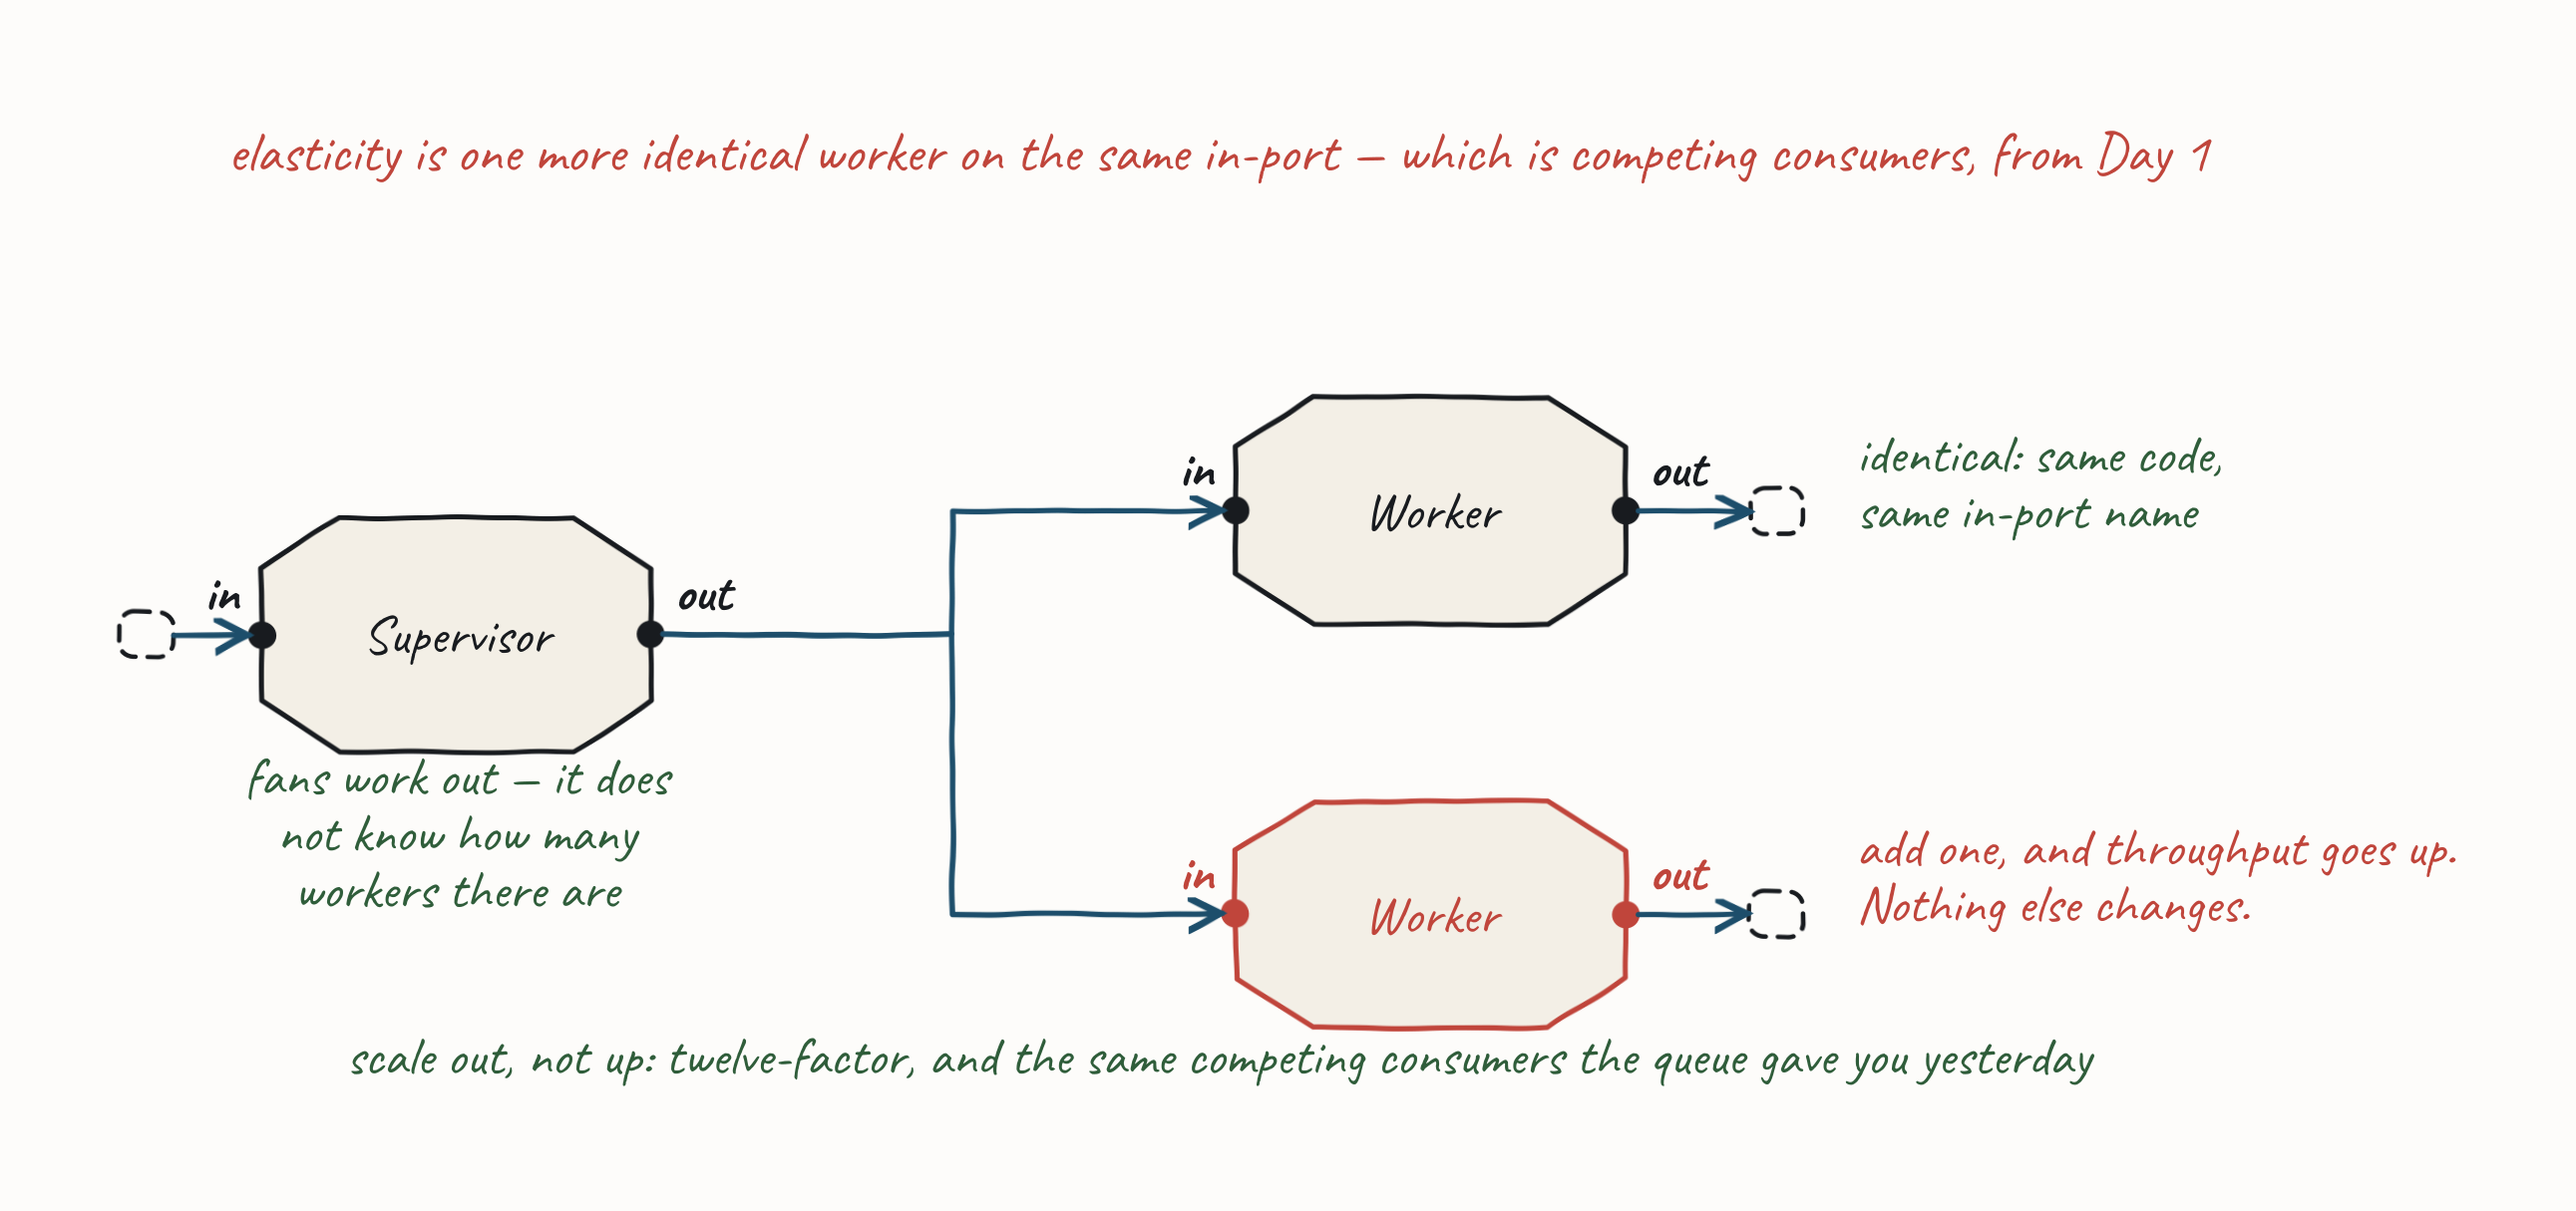
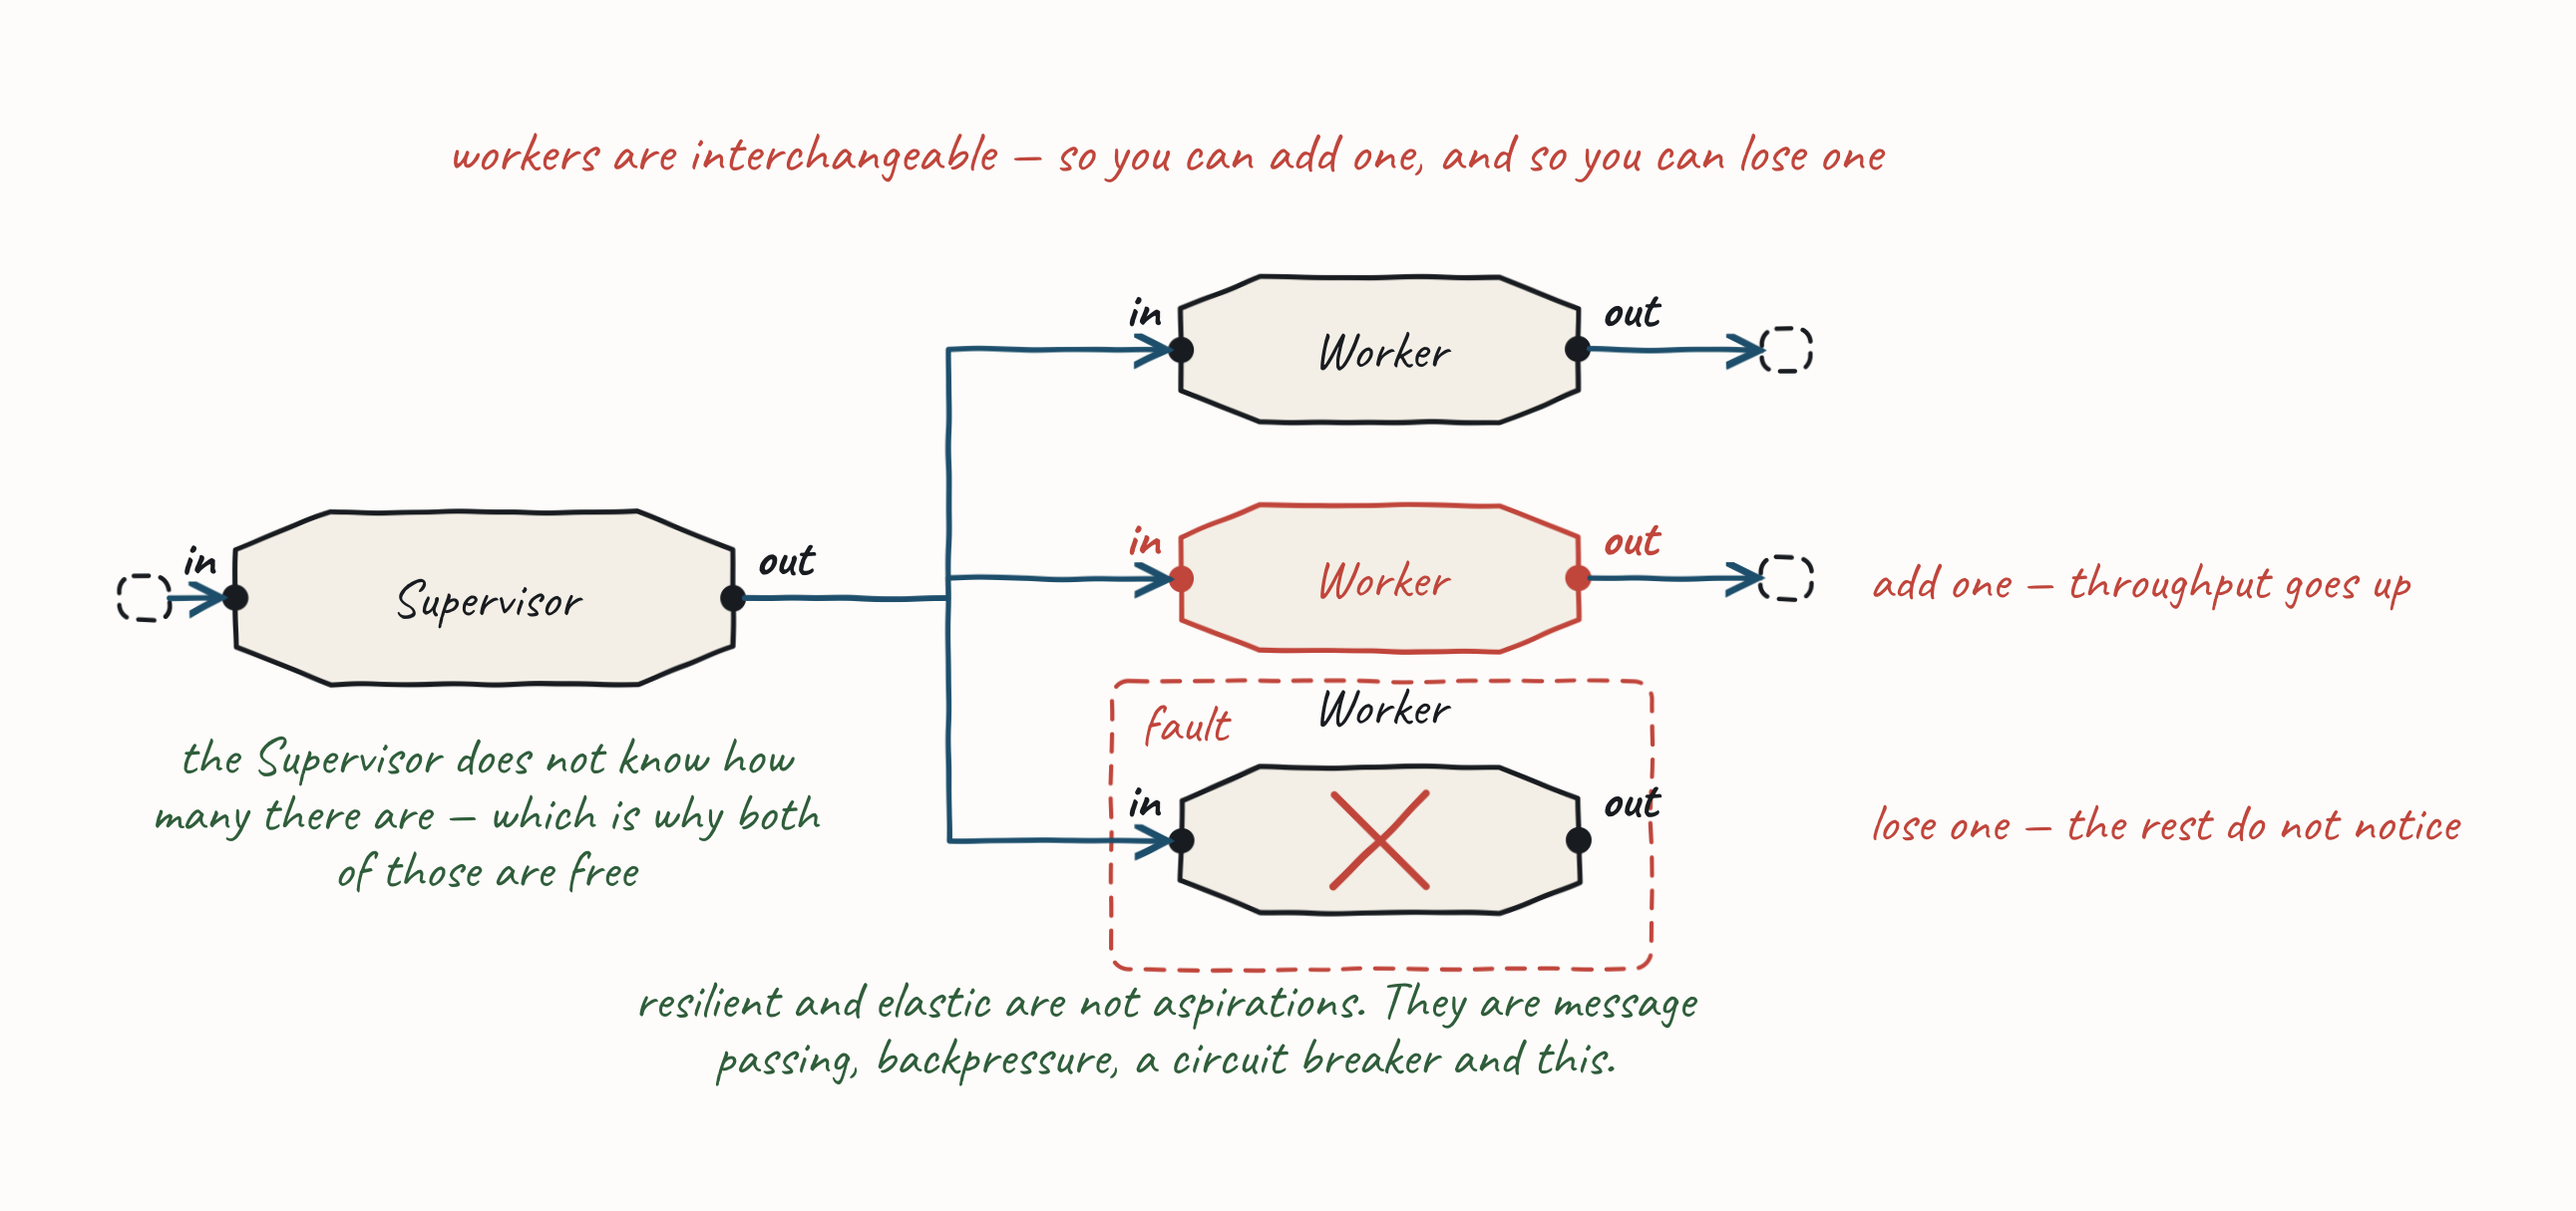
Elastic and resilient on one drawing, which is what the old red note asked for
The second of the four composed figures. `flow-scale-out` and
`flow-scale-out-fault` are now one drawing — and the figure this replaces
asked for it in its own words: its red idea was "that is what resilient
and elastic look like on the same drawing", which was a sentence about a
drawing that did not exist. They compose because they are one property
seen twice: workers are interchangeable, so you can add one, and so you
can lose one.

The middle worker does double duty, and that is what makes it fit. Three
stacked workers is the obvious merge and it does not: the pair's nodes
come out 85 units tall in the finished figure, and three of those with
gaps wants 387 units of a stage that has 325 once the red idea and the
foot comment are off it. So the added worker is also a survivor — it
carries the elastic note and sits outside the fault region — and three
shapes do the work of four. Pricing that before drawing saved a rework.

Four defects, none of them visible in the source and none catchable by
machine:

  * the failed worker's name lay on the fault region's dashed top border,
    beside the region's own label — a note on a group border is one of
    lint_figures.py's three blind spots;
  * moving it under the hexagon put it on the border's other side, and
    the foot comment then ran through both;
  * the region's top edge cleared the worker inside it but ran 2 units
    under the added worker ABOVE it — and both are red, so the drawing
[…]

diff --git a/tools/flow_reactive.py b/tools/flow_reactive.py
@@ -963,74 +963,94 @@ def circuit_breaker():
 
 @figure("flow-scale-out")
 def scale_out():
-    """*Putting Reactive Together*, second of three. Red is on the **added worker**:
-    scaling out is one more identical instance and nothing else, and that is what
-    makes elasticity a property of the shape rather than a feature you build."""
-    d = Diagram("Scale Out, Not Up", w=1300, h=580)
-    idea(d, "elasticity is one more identical worker on the same in-port — "
-            "which is competing consumers, from Day 1")
+    """*Putting Reactive Together*, second of two -- **elastic and resilient on one
+    drawing.** Composed from what were `flow-scale-out` and `flow-scale-out-fault`,
+    and the figure it replaces asked for this in its own words: its red idea was
+    *"that is what resilient and elastic look like on the same drawing"*, which was a
+    sentence about a drawing that did not exist.
 
-    sup = d.node(110, 240, 220, 132, "Supervisor", ins=("in",), outs=("out",))
-    d.arrow(pkt_on(d, 30, sup["ports"]["in0"]), sup["ports"]["in0"],
+    **The two are one property seen twice, which is why they compose.** Workers are
+    interchangeable: because they are, you can add one and throughput goes up, and
+    because they are, you can lose one and the work goes back on the queue. Drawing
+    them apart made that read as two facts about scaling rather than one fact about
+    the shape.
+
+    **The middle worker does double duty, and that is what makes it fit.** Three
+    stacked workers is the obvious merge and it does not fit: the pair's nodes come
+    out 85 units tall in the finished figure and three of those with gaps wants 387
+    units of a stage that has 325 once the red idea and the foot comment are off it.
+    So the added worker is also one of the survivors -- it carries the elastic note
+    and sits outside the fault region -- and three shapes do the work of four.
+
+    **Everything the pair said in prose and the slide says too is gone.** Between them
+    they carried six explanatory notes; what is left is the two sentences a picture
+    can make and a bullet cannot: one more of these, and one fewer.
+
+    Red is on both, because they are one idea. Reding only the fault would say
+    elasticity is the default and resilience the remark, which is the wrong way round
+    for a slide called *Putting Reactive Together*.
+    """
+    d = Diagram("Scale Out, and a Fault", w=1300, h=624)
+    idea(d, "workers are interchangeable — so you can add one, and so you can "
+            "lose one")
+
+    # 300 wide, not the pair's 220: at the k this figure compacts to, the label-fit
+    # clamp is `(advance + 12) / w` and "Supervisor" is the longest name on the
+    # drawing. Widening the node is free here and shortening the word is not an
+    # option -- it is the name of the thing.
+    sup = d.node(90, 250, 300, 104, "Supervisor", ins=("in",), outs=("out",))
+    d.arrow(pkt_on(d, 20, sup["ports"]["in0"]), sup["ports"]["in0"],
             sides=("r", "l"))
 
-    for y, accent in ((172, False), (400, True)):
-        w = d.node(660, y, 220, 128, "Worker", ins=("in",), outs=("out",),
-                   accent=accent)
+    # **The fault region opens 56 units above the failed worker's hexagon, and that gap
+    # is the whole design of this corner.** Three things want the same band of the
+    # drawing: the region's dashed border, the region's own "fault" label, and the
+    # name of the hexagon inside it -- and a note lying on a group border is one of
+    # `lint_figures.py`'s three blind spots, so none of it is caught by machine.
+    # Under the hexagon the name landed on the border's other side and the foot
+    # comment ran through both. Above it, with the border opened to make room, all
+    # three clear each other and "fault" sits at the top LEFT where nothing else is.
+    #
+    # **And the region's top edge has to clear the worker ABOVE it, not just the one
+    # inside it.** At 336 the dashed border ran 2 units under the added worker's
+    # hexagon -- and both of them are red, so the two shapes read as one thing and
+    # the drawing appeared to say the elastic worker was in the fault region. Nothing
+    # measures the gap between a group border and a shape outside it.
+    d.group(618, 352, 326, 174, "fault", accent=True)
+    for y, kind in ((108, "plain"), (246, "added"), (404, "dead")):
+        w = d.node(660, y, 240, 88, "" if kind == "dead" else "Worker",
+                   ins=("in",), outs=("out",), accent=(kind == "added"))
         d.arrow(sup["ports"]["out0"], w["ports"]["in0"], sides=("r", "l"),
-                via=[(500, 306), (500, y + 64)])
-        d.arrow(w["ports"]["out0"], pkt_on(d, 950, w["ports"]["out0"]),
-                sides=("r", "l"))
-
-    # anchored start, clear of the out packet: centred here they sat on top of it
-    d.note(1010, 230, "identical: same code,\nsame in-port name", COMMENT, 15,
-           anchor="start")
-    d.note(1010, 452, "add one, and throughput goes up.\nNothing else changes.",
-           ANNOTATION, 15, anchor="start")
-    d.note(220, 428, "fans work out — it does\nnot know how many\nworkers there are",
-           COMMENT, 15)
-    caveat(d, "scale out, not up: twelve-factor, and the same competing consumers "
-              "the queue gave you yesterday")
-    return d
-
-
-@figure("flow-scale-out-fault")
-def scale_out_fault():
-    """*Putting Reactive Together*, third of three -- the same drawing with a fault
-    in it, so the pair reads as one figure and its consequence. Red is the **fault
-    region**: the point is what does *not* happen to the other worker.
-
-    The failed worker's name sits above its hexagon rather than inside it, for the
-    same reason as the bulkhead's -- a full-size cross strikes through its own
-    label."""
-    d = Diagram("Scale Out — and a Fault", w=1300, h=650)
-    idea(d, "one worker fails and the others do not notice — that is what resilient "
-            "and elastic look like on the same drawing")
-
-    sup = d.node(110, 240, 220, 132, "Supervisor", ins=("in",), outs=("out",))
-    d.arrow(pkt_on(d, 30, sup["ports"]["in0"]), sup["ports"]["in0"],
-            sides=("r", "l"))
-
-    d.group(608, 372, 336, 190, "fault", accent=True)
-    for y, dead in ((172, False), (416, True)):
-        w = d.node(660, y, 220, 128, "" if dead else "Worker",
-                   ins=("in",), outs=("out",))
-        d.arrow(sup["ports"]["out0"], w["ports"]["in0"], sides=("r", "l"),
-                via=[(500, 306), (500, y + 64)])
-        if dead:
-            d.note(770, 398, "Worker", INK, 17)
-            d.icon(770, y + 64, "cross", accent=True, r=40)
+                via=[(520, 302), (520, y + 44)])
+        if kind == "dead":
+            # above the hexagon, as `flow-circuit-breaker` and the bulkhead both do:
+            # a full-size cross strikes through a label left inside the shape, which
+            # has cost this family two rounds already
+            d.note(780, 378, "Worker", INK, 17)
+            d.icon(780, y + 44, "cross", accent=True, r=26)
         else:
-            d.arrow(w["ports"]["out0"], pkt_on(d, 950, w["ports"]["out0"]),
+            d.arrow(w["ports"]["out0"], pkt_on(d, 1010, w["ports"]["out0"]),
                     sides=("r", "l"))
 
-    d.note(1010, 230, "still working, still delivering", COMMENT, 15, anchor="start")
-    d.note(980, 480, "its work goes back on the\nqueue and another worker\ntakes it",
-           COMMENT, 15, anchor="start")
-    d.note(220, 425, "the Supervisor replaces it —\nit was never holding\n"
-                     "anything the worker knew", COMMENT, 15)
+    # **One line each, and that is a legibility fix as much as an editorial one.**
+    # These were two lines apiece, and between the pair of them, the red idea, the
+    # green aside and a two-line foot comment the drawing carried more prose than the
+    # slide does. Text does not scale when `compact()` shrinks a figure, so a note
+    # anchored out to the right sets a floor on how narrow the whole thing can get --
+    # this one stalled at 908 units and 17.6pt with nothing to say why. The slide's
+    # own bullet already has *a supervisor fans work out to worker instances; that is
+    # elasticity*, and the presenter note asks for a sentence each, not a paragraph.
+    # 1075, not 1030: at 1030 an anchored-start note began inside the out-packet it
+    # sits beside. A packet is 30 units wide and the arrow into it is not, so the
+    # clearance has to be measured from the packet, not from the arrowhead.
+    d.note(1075, 302, "add one — throughput goes up", ANNOTATION, 15,
+           anchor="start")
+    d.note(1075, 448, "lose one — the rest do not notice", ANNOTATION, 15,
+           anchor="start")
+    d.note(240, 442, "the Supervisor does not know how\nmany there are — which is "
+                     "why both\nof those are free", COMMENT, 15)
     caveat(d, "resilient and elastic are not aspirations. They are message passing, "
-              "backpressure, a circuit breaker and this.", y=616)
+              "backpressure, a circuit breaker and this.", y=572)
     return d
 
 

diff --git a/outlines/DayTwo.md b/outlines/DayTwo.md
@@ -700,8 +700,7 @@ The pieces, and how they compose.
 ▎ Responsive under failure, responsive under load. The traits are these mechanisms.
 
 #image: hand-drawn message-passing diagram — circuit breaker: stop consuming, and let one trial call through  [→ resources/flow-circuit-breaker.png]
-#image: hand-drawn 'scale out not up' diagram — a Supervisor fanning work out to identical Workers  [→ resources/flow-scale-out.png]
-#image: hand-drawn 'scale out not up' diagram — one Worker in a fault region, and the other carrying on  [→ resources/flow-scale-out-fault.png]
+#image: hand-drawn 'scale out not up' diagram — a Supervisor fanning work out to identical Workers: one added, one in a fault region, and the rest carrying on regardless  [→ resources/flow-scale-out.png]
 
 Presenter notes: The circuit-breaker and scale-out diagrams used to be orphaned images under a "recap" heading and were never really taught. Give them a sentence each. Land the callout: Resilient and Elastic are not aspirations, they are the four mechanisms on this slide.
 

diff --git a/REDEVELOPMENT-PLAN.md b/REDEVELOPMENT-PLAN.md
@@ -1382,6 +1382,7 @@ describe.
 | entry | was | now | notes |
 |---|---|---|---|
 | D2 *When the Pipe Fills* | `flow-backpressure` + `flow-load-shedding` | ✅ `flow-when-the-pipe-fills` | one producer/pipe/consumer; the pressure goes back above it, the data falls out below |
+| D2 *Putting Reactive Together* | `flow-scale-out` + `flow-scale-out-fault` | ✅ `flow-scale-out` | one Supervisor, three workers: one added, one failed in a fault region, and the middle one does double duty so three shapes do the work of four |
 
 **A second rule fell out of the first one.** `Diagram.K_FLOOR` is 0.55 — a figure may not be shrunk by
 more than 45% — and **text does not shrink with the geometry**, so a composed figure that is one row
